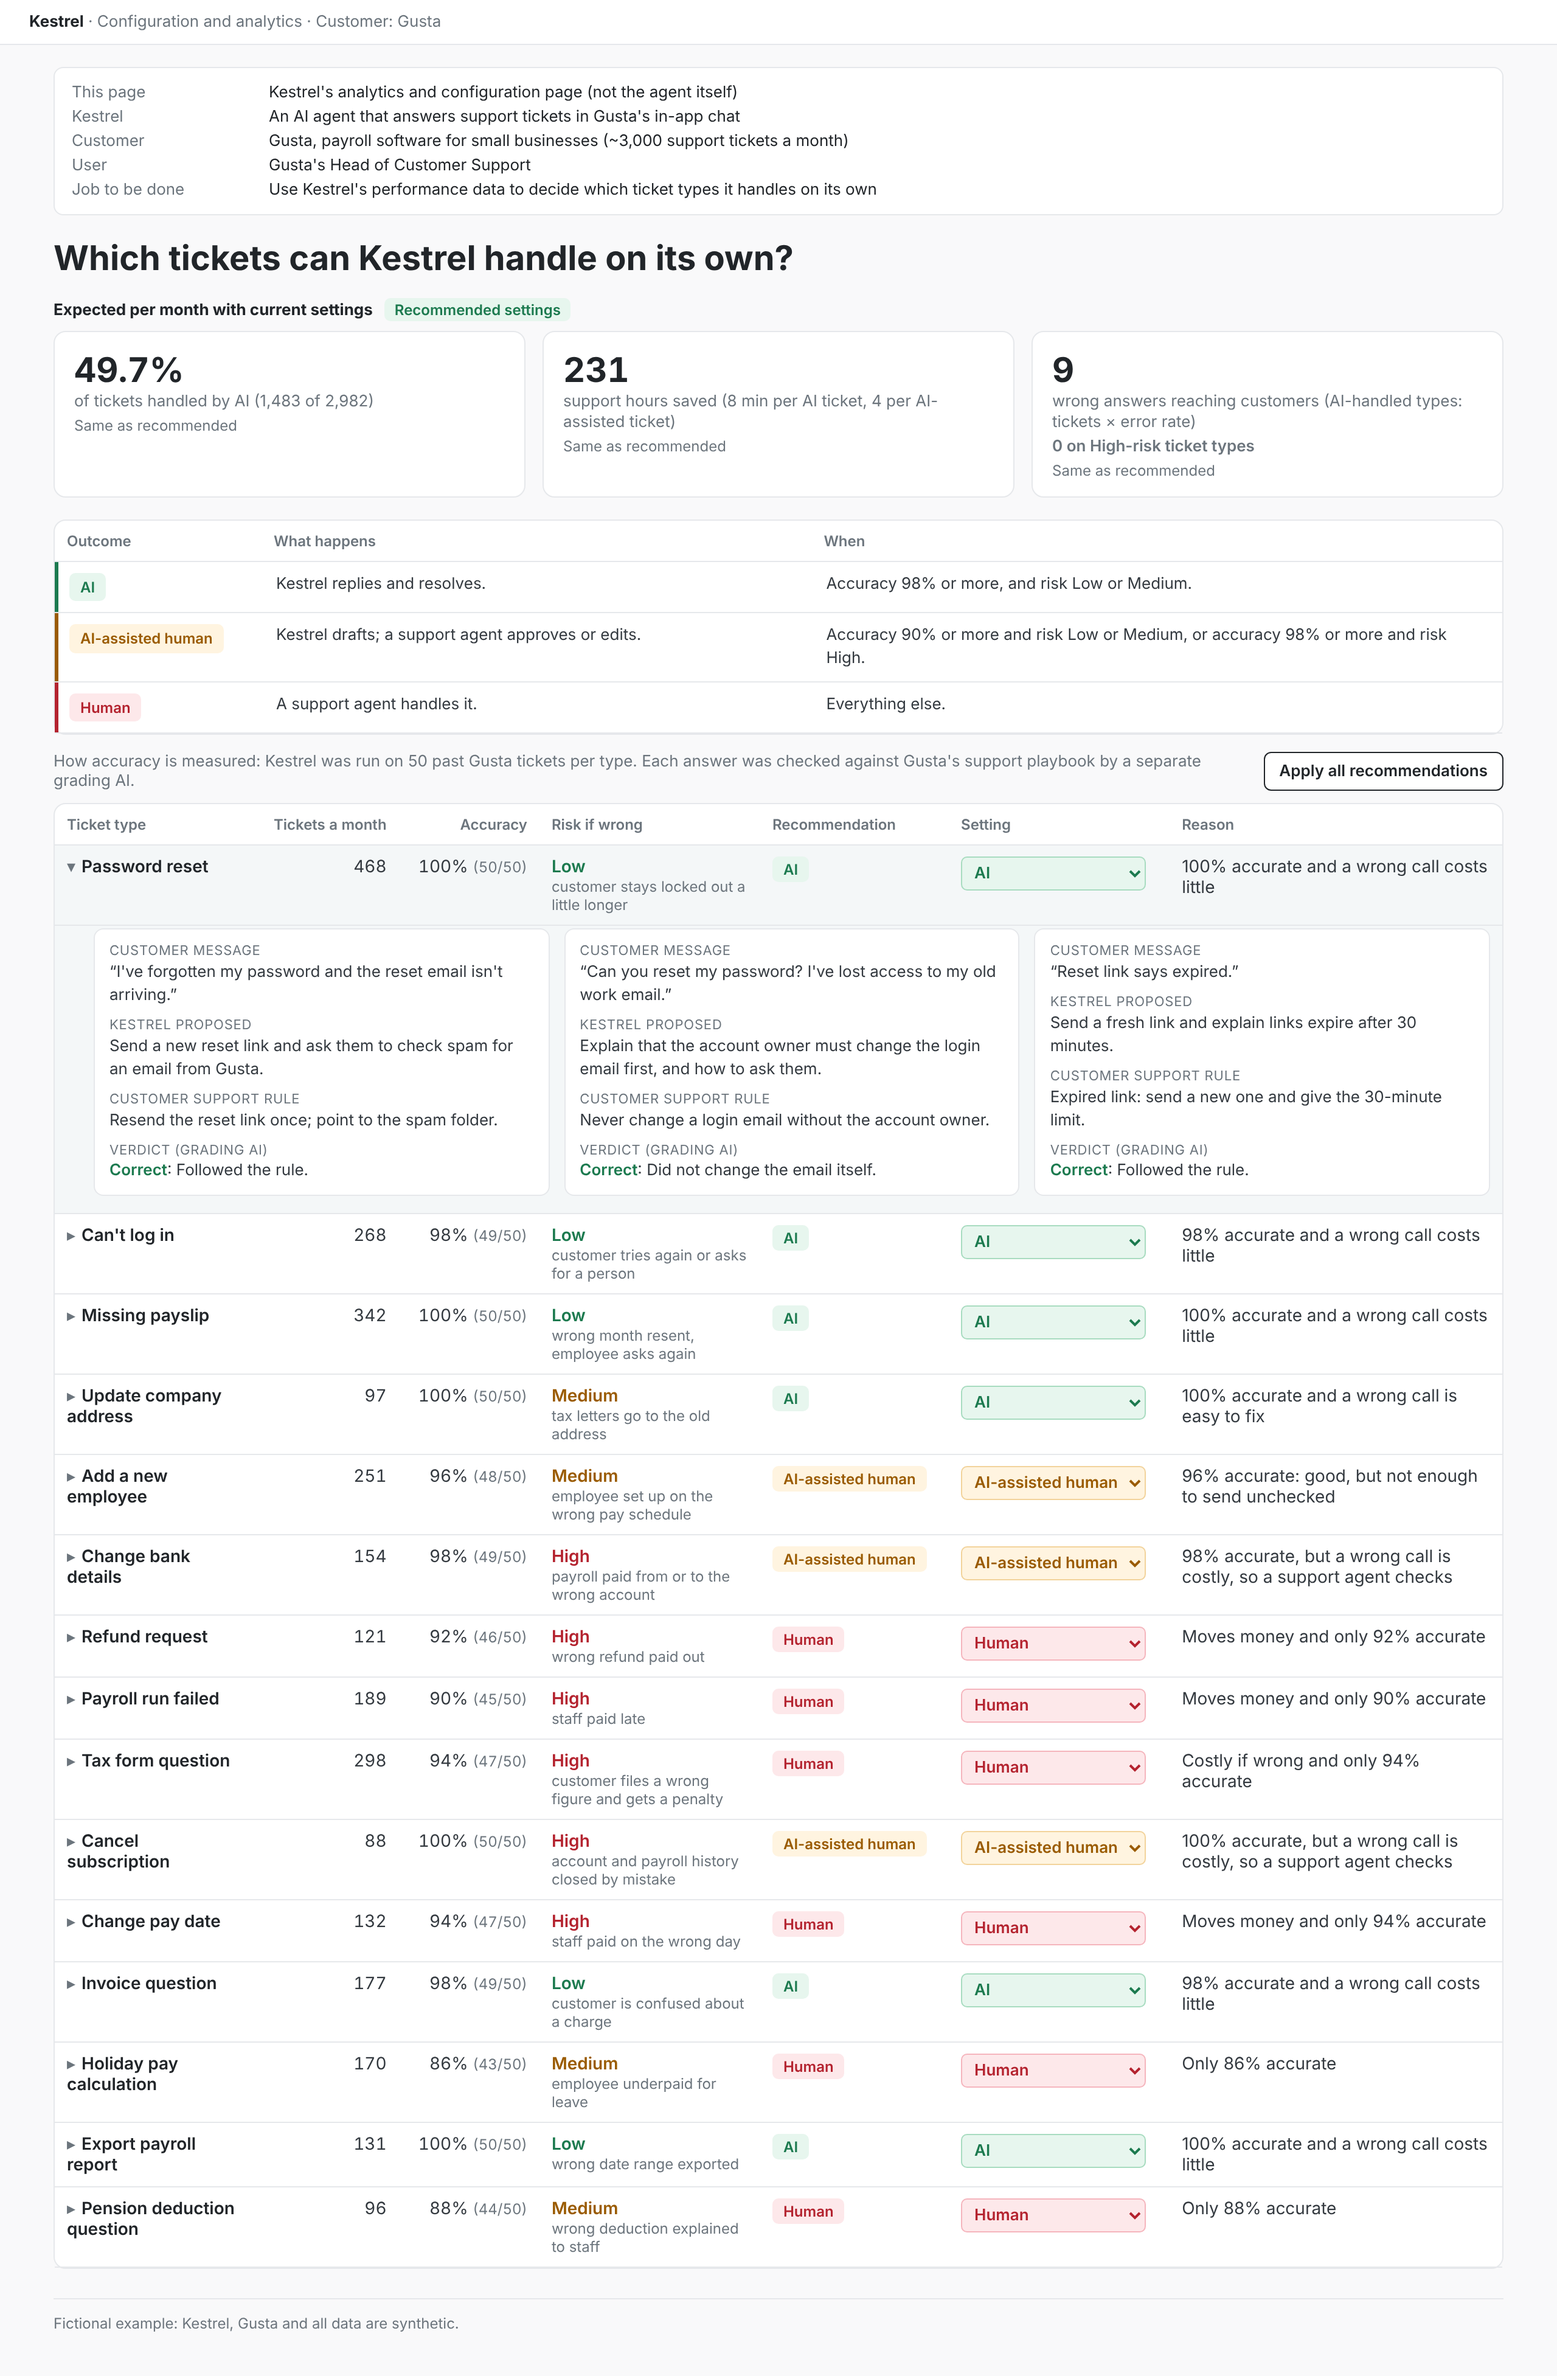
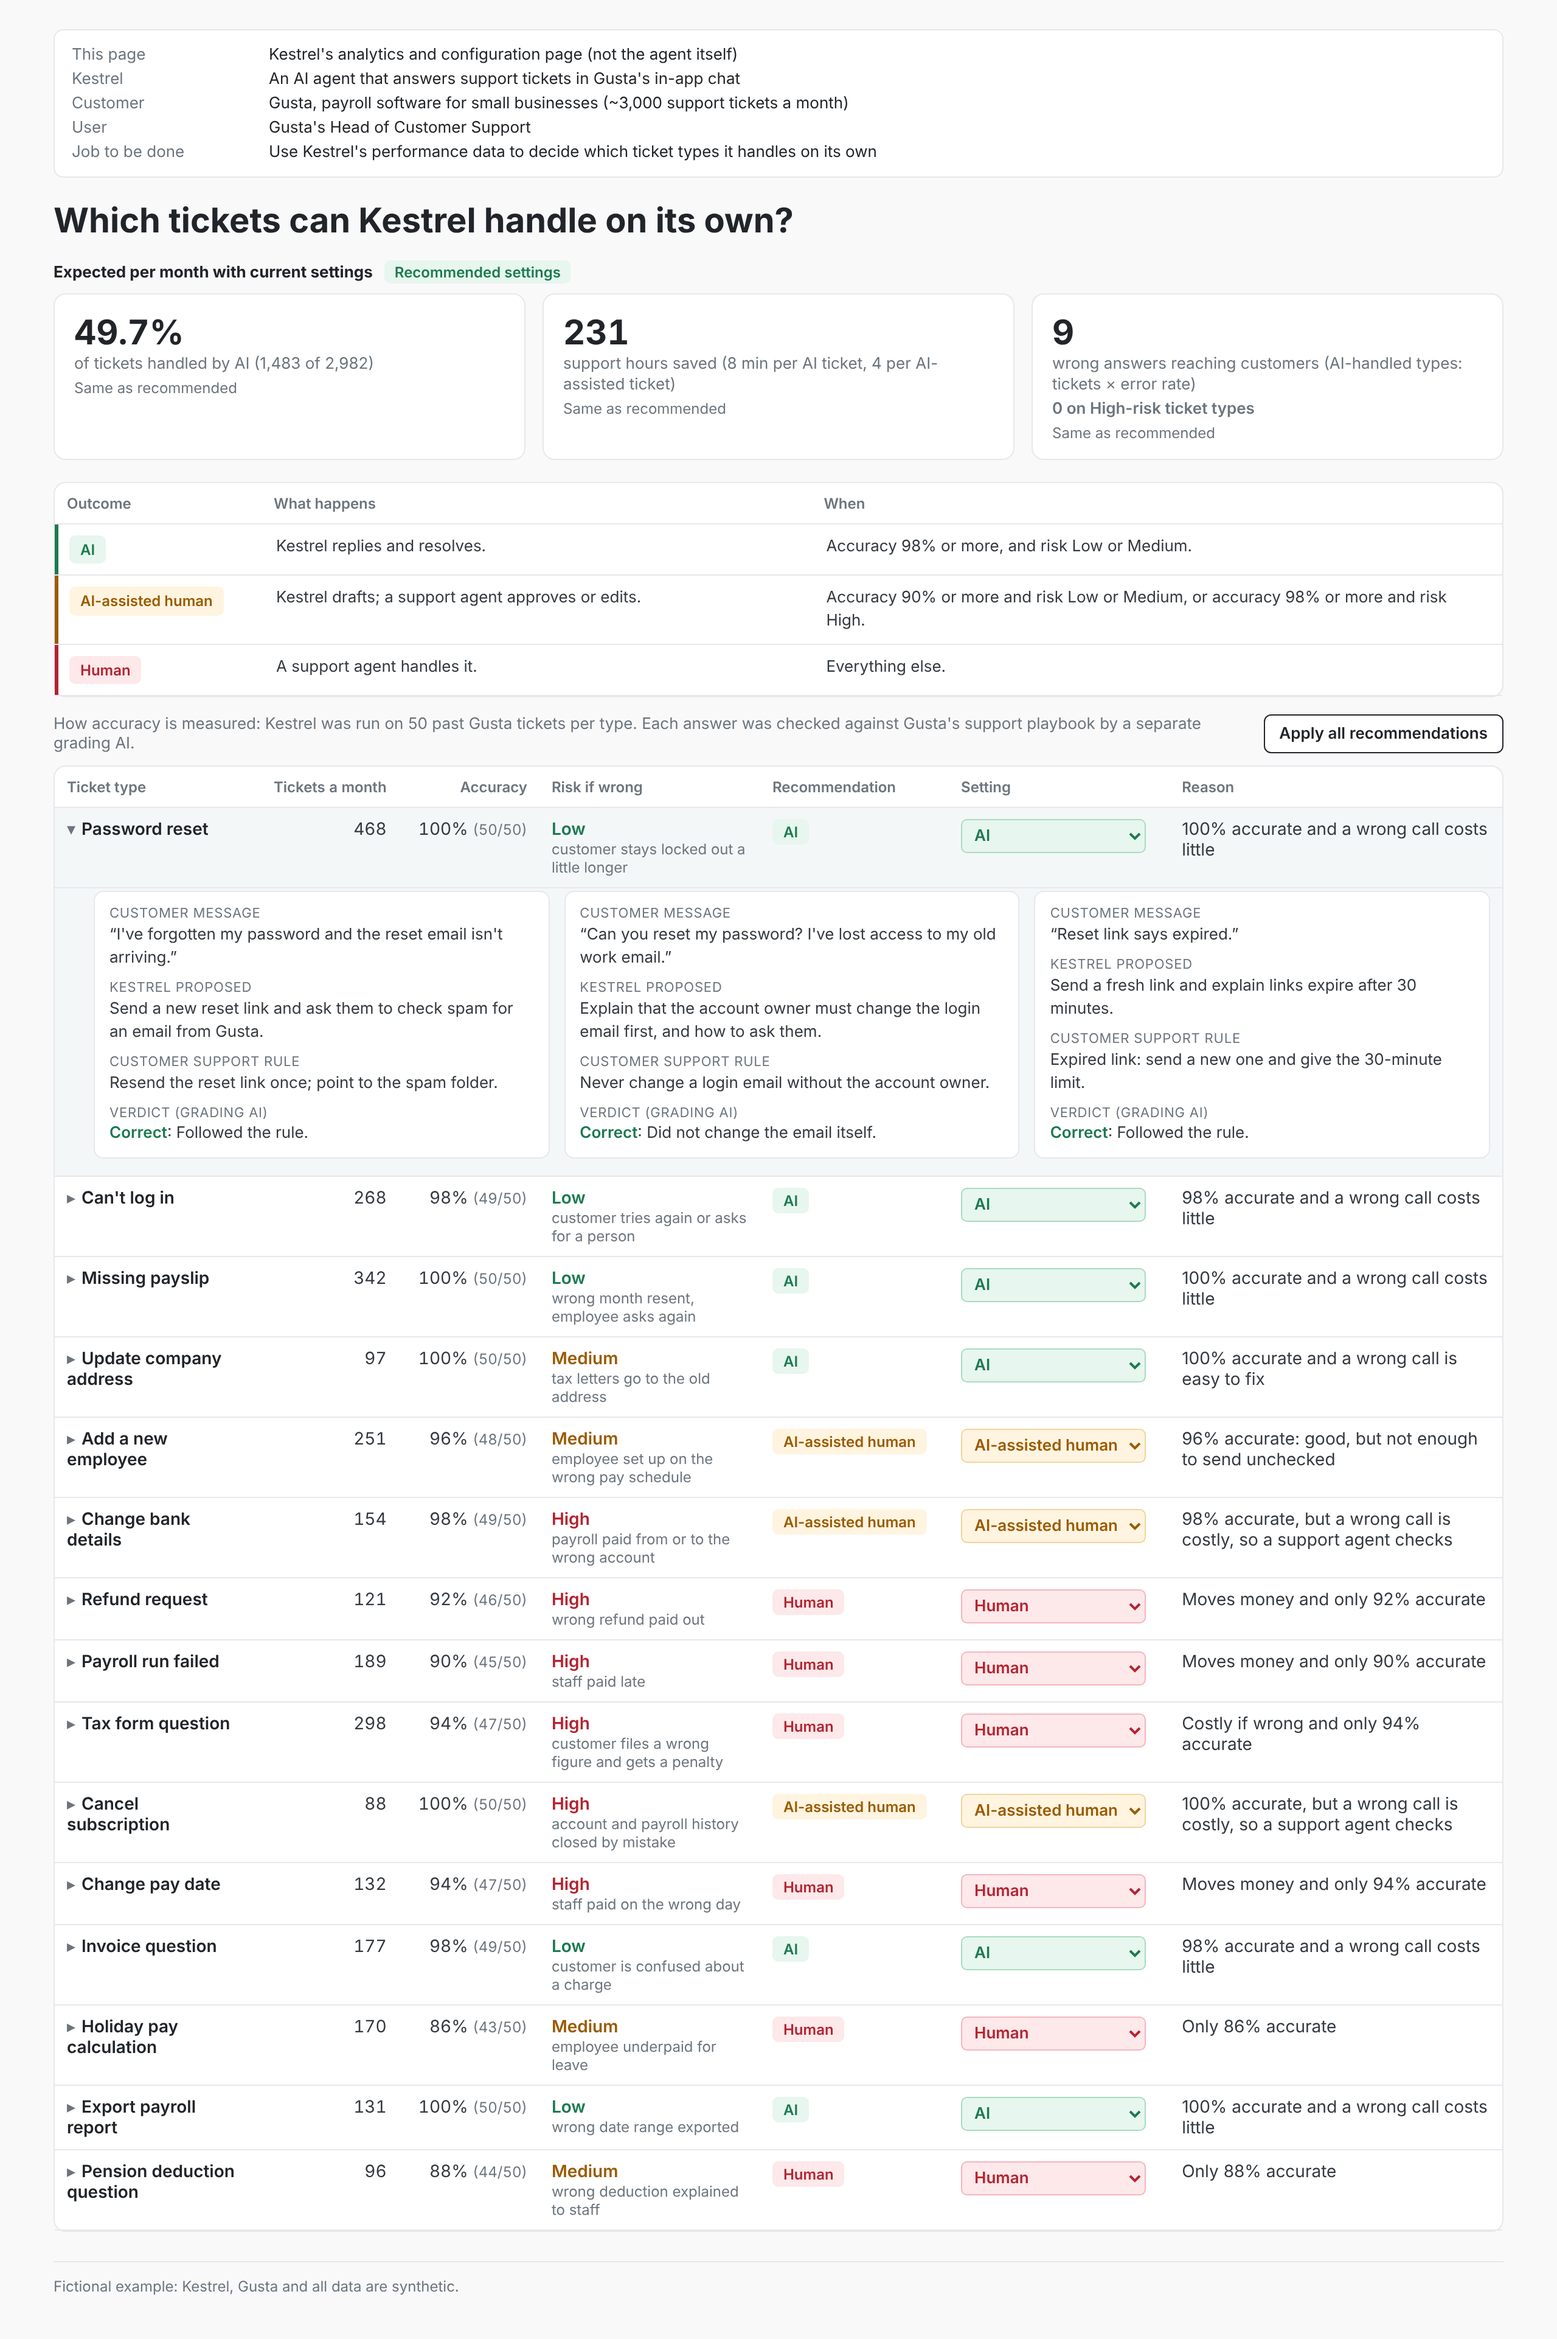
Remove the top bar
Claude-Session: https://claude.ai/code/session_016JoguXTxkWcj5knaYbAtMZ

diff --git a/examples/kestrel/run/build/mvp.html b/examples/kestrel/run/build/mvp.html
@@ -1,6 +1,6 @@
 <!doctype html>
 <html lang="en"><head><meta charset="utf-8"><meta name="viewport" content="width=device-width,initial-scale=1">
-<title>Kestrel · Configuration and analytics · Customer: Gusta (fictional example)</title>
+<title>Kestrel analytics and configuration (fictional example)</title>
 <!-- FICTIONAL example: Kestrel, Gusta and all data are synthetic. -->
 <style>
 :root{--text:#343a40;--head:#212529;--mute:#6c757d;--line:#e6e8eb;--bg:#f9f9fa;--ai-bg:#e7f6ee;--ai:#1c7a4f;--mix-bg:#fff4e0;--mix:#9a5b00;--hum-bg:#fde8ea;--hum:#b4232f;--open:#f4f7f8}
@@ -8,7 +8,7 @@
 body{margin:0;background:var(--bg);color:var(--text);font-family:Inter,Arial,sans-serif;font-size:14px}
 .topbar{background:#fff;border-bottom:1px solid var(--line);padding:10px 24px;font-size:13px;color:var(--mute)}
 .topbar b{color:var(--head)}
-main{max-width:1240px;margin:0 auto;padding:18px 24px 36px}
+main{max-width:1240px;margin:0 auto;padding:24px 24px 36px}
 .header{display:grid;grid-template-columns:150px 1fr;gap:4px 12px;font-size:13px;margin:0 0 18px;padding:12px 14px;background:#fff;border:1px solid var(--line);border-radius:8px}
 .header dt{color:var(--mute)}.header dd{margin:0;color:var(--head)}
 h1{font-size:28px;color:var(--head);margin:0 0 16px}
@@ -54,7 +54,6 @@ tr.detail td{background:var(--open);padding:2px 10px 14px 32px}
 footer{margin-top:24px;color:var(--mute);font-size:12px;border-top:1px solid var(--line);padding-top:12px}
 @media (max-width:900px){.summary,.exgrid{grid-template-columns:1fr}.hide-sm{display:none}main{padding:16px}.header{grid-template-columns:1fr}.bar{flex-direction:column;align-items:flex-start}}
 </style></head><body>
-<div class="topbar" id="topbar"></div>
 <main>
 <dl class="header" id="header"></dl>
 <h1 id="headline"></h1>
@@ -96,7 +95,6 @@ let D, settings = [], open = new Set([0]);
 const fmt = v => Math.round(v).toLocaleString('en-GB');
 function staticParts(){
   const K = D.product, G = D.customer, n = D.test_tickets_per_type;
-  document.getElementById('topbar').innerHTML = `<b>${K}</b> · Configuration and analytics · Customer: ${G}`;
   document.getElementById('header').innerHTML = `
     <dt>This page</dt><dd>${K}'s analytics and configuration page (not the agent itself)</dd>
     <dt>${K}</dt><dd>An AI agent that answers support tickets in ${G}'s in-app chat</dd>

diff --git a/examples/kestrel/run/build/check_mvp.js b/examples/kestrel/run/build/check_mvp.js
@@ -9,7 +9,7 @@ const srv = http.createServer((q, r) => { const f = path.join(root, decodeURICom
   const t = (label, ok) => { console.log((ok ? 'PASS ' : 'FAIL ') + label); if (!ok) errs.push(label); };
   const txt = s => p.textContent(s);
   await p.goto(`http://localhost:${srv.address().port}/build/mvp.html`); await p.waitForSelector('body[data-ready="1"]');
-  t('top bar', (await txt('#topbar')) === 'Kestrel · Configuration and analytics · Customer: Gusta');
+  t('no top bar', !(await p.$('#topbar')));
   t('header names the page, not the agent itself', (await txt('#header')).includes("Kestrel's analytics and configuration page (not the agent itself)"));
   t('headline', (await txt('#headline')) === 'Which tickets can Kestrel handle on its own?');
   t('summary: 49.7%, 231 hours, 9 wrong answers', (await txt('#sumShare')) === '49.7%' && (await txt('#sumHours')) === '231' && (await txt('#sumWrong')) === '9');
